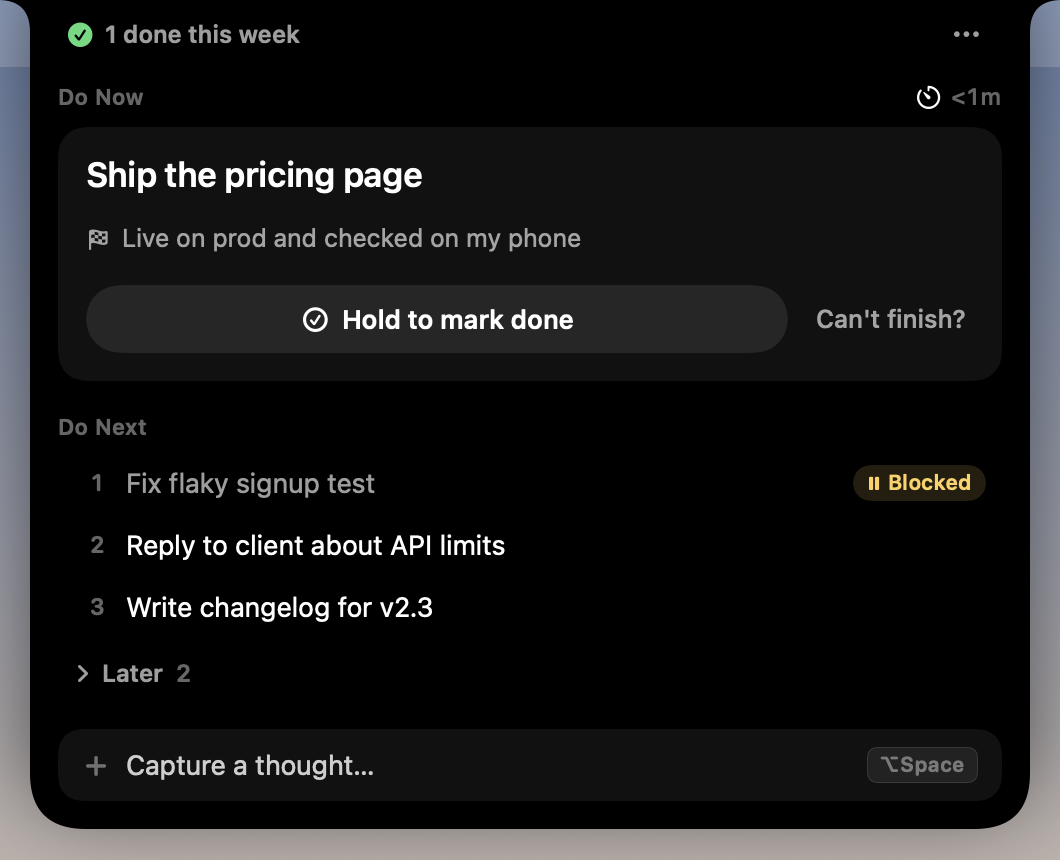
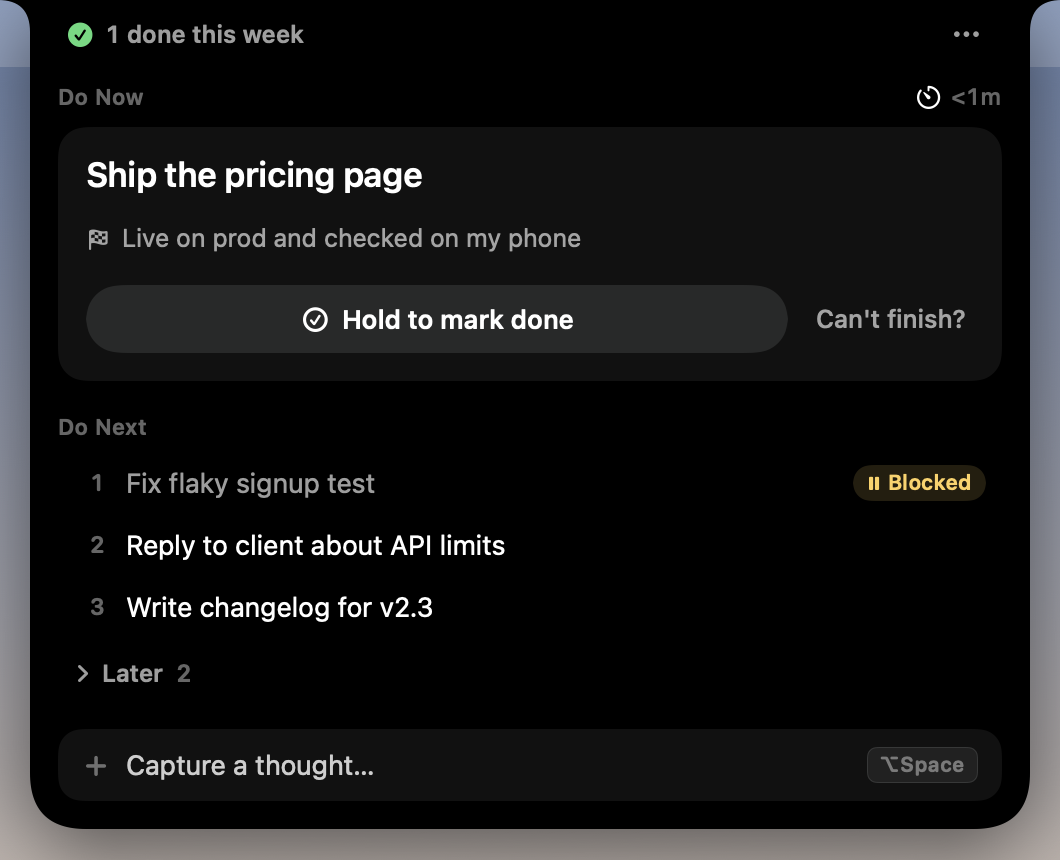
README for the launch, release script, fresh screenshots
The README leads with the idea (one task, a finish line, agents that know
both), then install for the app and for Claude Code and Codex. Insights and
the prompter move into collapsed sections.

Changed region(s): [[0.0311, 0.9372, 0.9651, 1.0], [0.0934, 0.0302, 0.2802, 0.0605]]

diff --git a/README.md b/README.md
@@ -1,29 +1,79 @@
-# Next
+# Monotask
 
-A notch app for finishing one thing at a time. **Do Now** holds exactly one task, and it only counts as done when you hold the button to say it's done end to end. Everything else waits in **Do Next**.
+**One task at a time, in your MacBook's notch. Your coding agents know it too.**
 
-![Closed: a live dot and timer either side of the camera](docs/closed.png)
+<p align="center"><img src="docs/readme.gif" width="760" alt="Monotask: capture a task, start it with a finish line, Claude Code works toward it and parks a side quest after a yes, then hold to mark it done"></p>
 
-![Resting the pointer on the notch shows the task below the camera](docs/hover.png)
+AI agents made starting things free. Finishing is still on you.
 
-![Open](docs/open.png)
+Monotask holds exactly one task, your **Do Now**, with a **finish line**: one sentence that says what done means. Everything else waits in **Do Next**. A task only counts as done when you hold the button, and you only hold it when the task is done end to end.
 
-## Using it
+Then it tells your coding agent. Every Claude Code and Codex session knows your one task and its finish line, keeps its changes to that, tells you plainly whether the finish line is met, and parks side quests in Do Next only after you say yes.
 
-- **While something is in Do Now**, an amber dot and a timer sit either side of the camera. Rest the pointer on the notch to see the task and its finish line below it. Everything stays centred on the camera.
-- **Click the notch** to open it. Passing over it makes it swell slightly; turn on "Open on hover" in the ••• menu if you'd rather not click.
-- **⌥Space** from anywhere opens a capture field under the notch. Type, press Return, and you're back in your app. Esc cancels.
-- **Start** a task by writing what done looks like. That line is shown back to you while you hold to finish.
-- **Hold to mark done** for about a second to finish. Letting go early cancels.
-- **Can't finish?** lets you split it (the first piece becomes Do Now, the whole task goes back to the top of Do Next), park it as blocked, or drop it. Each needs a reason, and none of them count as done.
-- **Do Next** shows the top 3; the rest fold into Later. Hover a row for move-up and start, right-click to reorder, rename or delete, or double-click to rename.
-- **"N done this week"** in the top left opens the log of everything finished or dropped.
+> Notch apps for agents show you what your agent is doing. Monotask tells your agent what you're doing.
 
-## Insights
+Free and open source (MIT). No accounts, no cloud, no telemetry.
 
-Open it from the ••• menu (**Insights…**) or the **Insights** button on the log page. While it's open, Next shows in the Dock and ⌘-Tab; closing it puts Next back in the notch only.
+## How it works
 
-![Insights](docs/insights.png)
+| | |
+| --- | --- |
+| **Capture** | ⌥Space from any app. Type it, press Return, and you're back where you were. It waits in Do Next. |
+| **Start one task** | Write what done looks like. That's the finish line, and it's shown back to you while you finish. |
+| **It stays in your notch** | A live dot and a timer sit either side of the camera. Rest the pointer on the notch to see the task. |
+| **Only you finish it** | Hold to mark done for about a second. Letting go early cancels. |
+| **Can't finish?** | Split it (the first piece becomes Do Now), park it as blocked, or drop it. Each needs a reason, and none of them count as done. |
+
+Do Next shows the top three; the rest fold into Later. Hover a row to move it up or start it, right-click to reorder, rename or delete. "N done this week" opens the log of everything finished or dropped.
+
+## With Claude Code and Codex
+
+Install the plugin once and every session knows your Do Now and its finish line. Nothing to paste, no command to remember.
+
+**Claude Code**
+
+```
+claude plugin marketplace add Avi130805/monotask
+claude plugin install monotask@monotask
+```
+
+**Codex**
+
+```
+codex plugin marketplace add Avi130805/monotask
+codex plugin add monotask@monotask
+```
+
+Then start `codex` in a terminal, run `/hooks`, and approve the four Monotask hooks once.
+
+What changes:
+
+- **Your task travels with you.** Open a session in any folder and the agent already knows the one thing you're working on and what done means.
+- **It stays in scope.** Ask for something unrelated and it says once that it isn't your Do Now, then helps anyway. It never blocks you.
+- **It tells you what's left.** Done means your finish line is met end to end, and the agent says plainly whether it is.
+- **Side quests wait.** A flaky test it trips over goes to your Do Next, and only after you say yes.
+- **Only you finish.** Agents can't start, change or finish your Do Now. Information flows one way, into the agent; the notch only ever shows "Added to Do Next".
+
+The plugin sends your task title and finish line to your agent, and through it to the agent's model provider. Nothing else leaves your Mac, and the plugin makes no network calls of its own. Details, including exactly what the agent sees: [plugins/monotask](plugins/monotask/README.md).
+
+## What Monotask doesn't do
+
+No projects, priorities, due dates, estimates, tags, sprints, accounts or sync. If a feature would ask you to plan, sort or review your list, it isn't here. That's the point.
+
+## Install
+
+1. Download `Monotask.zip` from [the latest release](https://github.com/Avi130805/monotask/releases/latest), unzip it, and drag **Monotask** into Applications.
+2. Open it. The first time, macOS says it can't check the app for malicious software, because it isn't notarized. Open **System Settings → Privacy & Security**, scroll down, click **Open Anyway** next to Monotask, and confirm.
+3. Or build it yourself from source (below); it takes a minute with only the Command Line Tools.
+
+Needs macOS 15 or later on Apple silicon. It's made for MacBooks with a notch; on a display without one it hangs a small notch-shaped pill from the top of the screen.
+
+Used **Next**, the earlier name? On first launch Monotask copies your list, history, prompter script and settings over. Next's own files are left as they were.
+
+<details>
+<summary><b>Insights</b></summary>
+
+Open it from the ••• menu (**Insights…**) or the **Insights** button on the log page. While it's open, Monotask shows in the Dock and ⌘-Tab; closing it puts Monotask back in the notch only.
 
 For the last 7 days, 30 days or all time:
 
@@ -34,23 +84,23 @@ For the last 7 days, 30 days or all time:
 - **In and out**: what you captured against what you finished each week, and whether your list is growing or shrinking.
 - **What blocked you** and **why things were dropped**, in your own words.
 - **History** of every task that ended, with how long it took.
+</details>
 
-## Prompter
+<details>
+<summary><b>Prompter</b>: a teleprompter under the camera</summary>
 
 For recording a short talking-to-camera video, or rehearsing one. The script sits right under the camera, so your eyes stay close to the lens.
-
-![Cue mode](docs/prompter-cue.png)
 
 - **⌥P** from any app (or **Start Prompter** in the ••• menu) puts it under the notch with a 3-2-1 countdown. **⌥P** again or **Esc** leaves. If ⌥P is taken, it falls back to ⌃⌥P; the ••• menu shows which.
 - **Cue mode** (the default) shows one section at a time: its label beside the camera and a few keywords to talk around. It moves on when the section's time is up, or when you press →. The last cue stays up until you press → or leave.
 - **Word mode** shows the script one word at a time, with the next word faint beside it, for rehearsing. **M** switches between the two and keeps your place.
 - **Space** pauses and resumes, **← →** go back or forward a word (a section in Cue mode), **↑ ↓** change the speed by 10 words a minute (150 to start), **R** starts again from the top.
 - The time you've spent speaking is shown against the script's budget and turns amber once you're over. A thin line under the text shows how far through the script you are, section by section.
-- Next remembers the mode, the speed and where you were, and picks up there next time (the countdown says where from). Editing the script starts it from the top.
+- Monotask remembers the mode, the speed and where you were, and picks up there next time (the countdown says where from). Editing the script starts it from the top.
 - It takes the keyboard while it's up. If you click another app (to start recording, say), click the prompter once to give it the keys back.
 - Prompting is never a task: it doesn't touch Do Now or Do Next, writes no events and doesn't show in Insights.
 
-The script is a plain text file, `~/Library/Application Support/Next/prompter.txt`. It's created with a sample script the first time you open the prompter. Edit it from **Prompter…** in the ••• menu (paste, edit, Save, or Save and start), which also tells you how long it runs at your speed and how much to cut if it's over its budget. You can also edit the file in any text editor.
+The script is a plain text file, `~/Library/Application Support/Monotask/prompter.txt`. It's created with a sample script the first time you open the prompter. Edit it from **Prompter…** in the ••• menu (paste, edit, Save, or Save and start), which also tells you how long it runs at your speed and how much to cut if it's over its budget. You can also edit the file in any text editor.
 
 | Markup | Means |
 | --- | --- |
@@ -65,35 +115,43 @@ The script is a plain text file, `~/Library/Application Support/Next/prompter.tx
 | `{look}` | A full-width "look at the lens" flash for about 0.6 s. |
 
 Punctuation adds natural pauses on its own: about 0.2 s after a comma, 0.45 s after a full stop and 0.3 s at an em dash. A pause mark straight after punctuation replaces its pause rather than adding to it. Each word gets time for its length: a five-letter word gets one word's worth at the current speed, and shorter or longer words a little less or more.
+</details>
 
 ## Where your data lives
 
-Everything is in `~/Library/Application Support/Next/`:
+Everything is in `~/Library/Application Support/Monotask/`:
 
 - `state.json` holds Do Now, Do Next and the log. It's rewritten whenever something changes.
-- `events.jsonl` is the event history the Insights are built from. It has one line per capture, start, split, block, drop, delete or finish, and lines are only ever added. If you upgrade from a version without it, it's rebuilt once from your existing log.
+- `events.jsonl` is the history Insights are built from: one line per capture, start, split, block, drop, delete or finish. Lines are only ever added.
 - `backups/` keeps the first copy of both files from each of the last 14 days.
-- `prompter.txt` is the prompter's script. Next only writes it when you save from **Prompter…**, or to put the sample there if it's missing.
+- `agent-context.md` is what coding agents read: your Do Now and its finish line. It exists only while something is in Do Now.
+- `inbox/` is where agents drop items for Do Next. Sandboxed agents use `$TMPDIR/monotask-inbox/` instead. Monotask imports both and empties them.
+- `prompter.txt` is the prompter's script.
 
 ## Building
 
 Needs only Apple's Command Line Tools (Swift 6). No Xcode.
 
 ```bash
-./scripts/build.sh            # builds build/Next.app
-./scripts/build.sh --run      # builds and launches it
-./scripts/build.sh --install  # copies it to /Applications
+./scripts/build.sh            # builds build/Monotask.app
+./scripts/build.sh --install  # also copies it to /Applications
+./scripts/release.sh          # builds and zips a release into dist/
 ```
 
 Checks and previews:
 
 ```bash
-.build/debug/Next --selftest          # the task rules, the event history, the Insights maths and the prompter's markup and timing
-.build/debug/Next --snapshot shots/   # renders every notch state, the prompter, the Insights window and the script editor with demo data
+.build/debug/Monotask --selftest          # the task rules, history, Insights maths, prompter, agent bridge and migration
+.build/debug/Monotask --snapshot shots/   # renders every notch state with demo data
+sh plugins/monotask/test/run.sh           # the agent plugin
 ```
 
-Both use throwaway files, so they never touch your real list.
+All of them use throwaway files, so they never touch your real list.
 
 ## Credits
 
-Notch shape from [DynamicNotchKit](https://github.com/MrKai77/DynamicNotchKit) (MIT, Kai Azim). Spring tuning, window setup and hover handling follow [boring.notch](https://github.com/TheBoredTeam/boring.notch) and [NotchDrop](https://github.com/Lakr233/NotchDrop).
+The notch outline comes from [DynamicNotchKit](https://github.com/MrKai77/DynamicNotchKit) by Kai Azim (MIT); see [THIRD_PARTY_NOTICES.md](THIRD_PARTY_NOTICES.md). [boring.notch](https://github.com/TheBoredTeam/boring.notch) and [NotchDrop](https://github.com/Lakr233/NotchDrop) showed what a notch app can feel like.
+
+## License
+
+[MIT](LICENSE)
